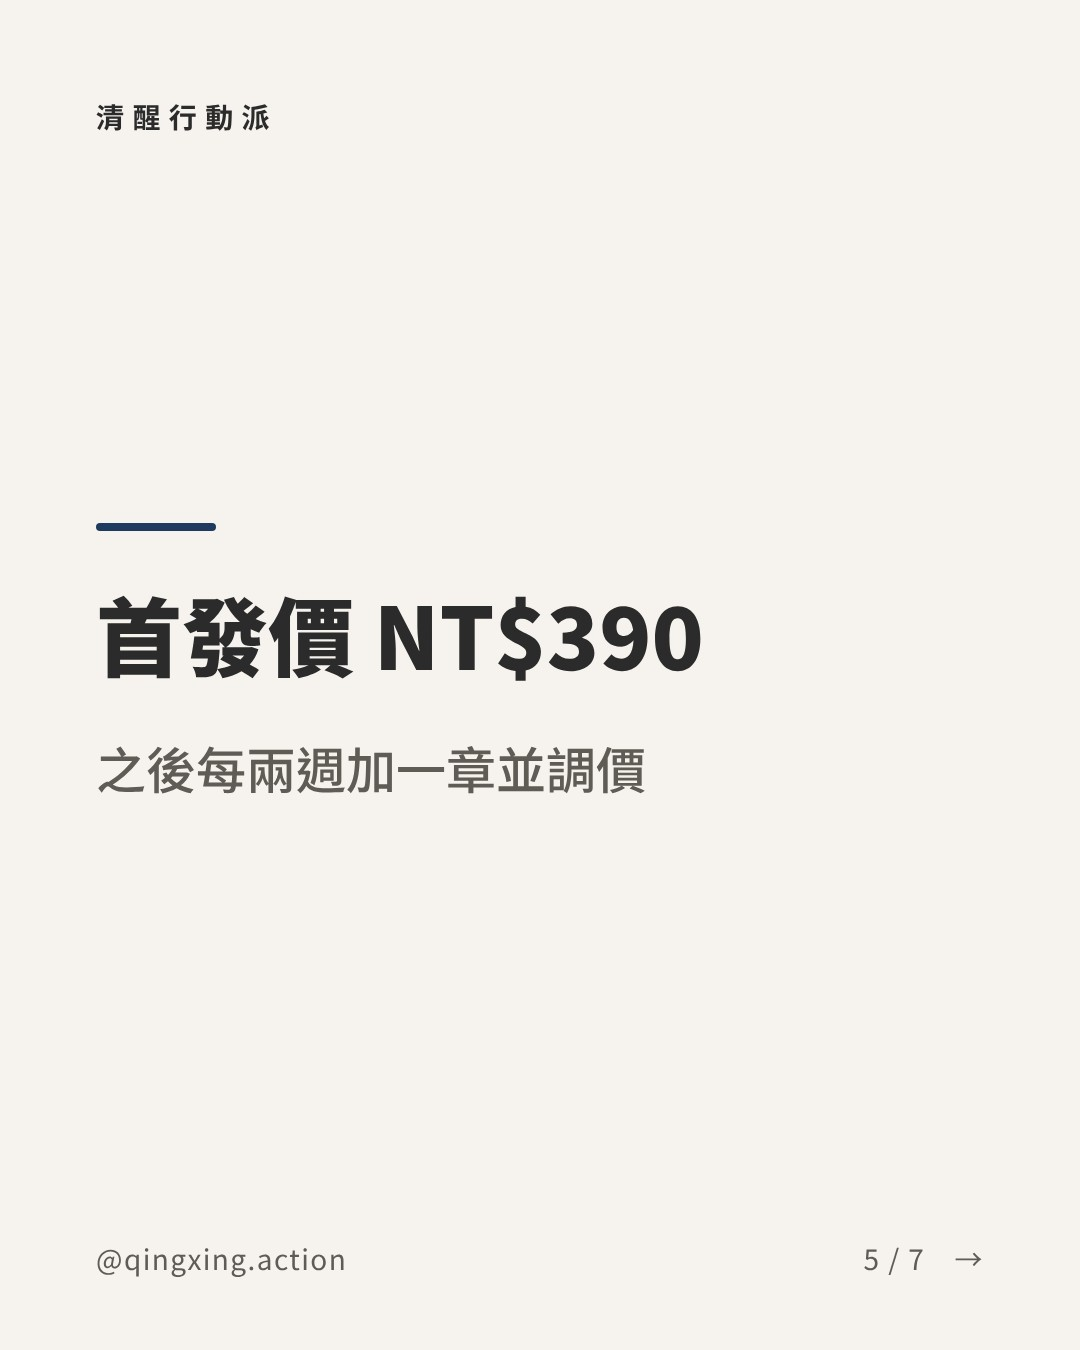
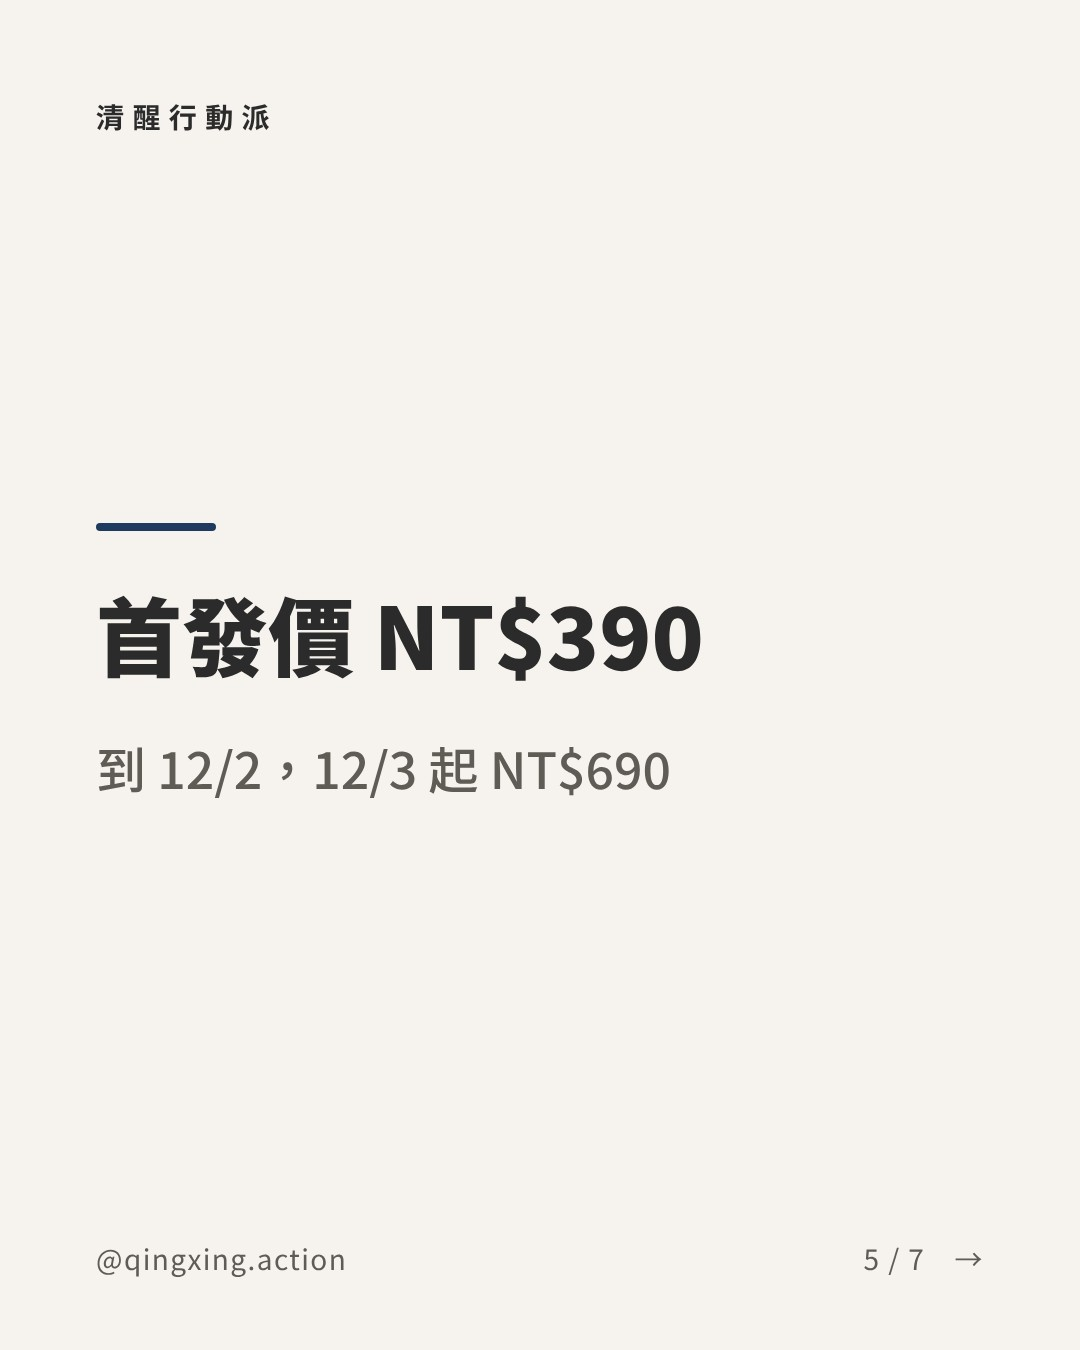
qingxing: 電子書改成 390 → 690（12/3）→ 990（12/31），組合 690 → 990 → 1,290；重做相關圖卡與 TikTok
Claude-Session: https://claude.ai/code/session_016ub6HVfmbt68BdywDv2i6d

Changed region(s): [[0.0917, 0.5289, 0.6417, 0.5911]]

diff --git a/qingxing/index.html b/qingxing/index.html
@@ -391,13 +391,13 @@ const MILESTONES = [
   ["2026-11-19","首發 30 名送 7 天回饋（到 11/26）"],
   ["2026-11-29","Day 20 草稿要補截圖與讀者回饋"],
   ["2026-12-01","團體方案開發開始"],
-  ["2026-12-03","電子書 V2 更新，漲到 590"],
+  ["2026-12-03","電子書 V2 更新，漲到 690（組合 990）"],
   ["2026-12-09","30 天 IG 主題結束"],
   ["2026-12-10","讀者推薦計畫開始（分 30%）"],
   ["2026-12-15","進階版上架 1,490"],
-  ["2026-12-17","電子書 V3 更新，漲到 790"],
+  ["2026-12-17","電子書 V3 更新（價格不變）"],
   ["2026-12-26","新年 90 天檔期開始（到 1/10）"],
-  ["2026-12-31","電子書 V4 更新，漲到 990 封頂"],
+  ["2026-12-31","電子書 V4 更新，調到 990（組合 1,290）"],
   ["2027-01-08","30 天文字陪跑開放（限 8 人）"],
   ["2027-01-28","電子書每月更新"],["2027-02-28","電子書每月更新"],["2027-03-28","電子書每月更新"],["2027-04-28","電子書每月更新"],
 ];

diff --git a/qingxing/instagram/posts/2026-11-19-day10-ebook-launch.md b/qingxing/instagram/posts/2026-11-19-day10-ebook-launch.md
@@ -14,6 +14,6 @@ status: ready
 
 不是勵志書，是一套 6 章的操作手冊：怎麼看清自己在逃什麼、怎麼拆任務、怎麼排 90 天。另附手機精簡版，通勤 5 分鐘看完一章。
 
-首發 NT$390，每兩週會加新章節並調價，早買的人終身免費更新。想要 Notion 打卡系統一起用的，組合 NT$690。連結在首頁。
+首發價 NT$390 到 12/2，12/3 起 NT$690，12/31 起 NT$990；之後每兩週加新章節，早買的人終身免費更新。想要 Notion 打卡系統一起用的，組合首發 NT$690。連結在首頁。
 
 #清醒行動派 #先清醒再行動 #電子書 #從迷惘到行動 #自我成長

diff --git a/qingxing/instagram/posts/2026-12-03-day24-ebook-v2.md b/qingxing/instagram/posts/2026-12-03-day24-ebook-v2.md
@@ -10,8 +10,8 @@ images:
   - qingxing/ig/2026-12-03-day24-ebook-v2-7.jpg
 status: ready
 ---
-V2 更新了，新增 20 頁的拖延拆解工作頁，價格調為 NT$590。
+V2 更新了，新增 20 頁的拖延拆解工作頁，價格調為 NT$690。
 
-已經買的人免費拿到新版。每兩週會持續加章節並調價，所以越早買越划算。連結在首頁。
+已經買的人免費拿到新版。12/17 會再加一章，12/31 起調為 NT$990，在那之前買的人之後的更新都免費。連結在首頁。
 
 #清醒行動派 #先清醒再行動 #電子書更新 #從迷惘到行動 #拖延

diff --git a/qingxing/instagram/posts/2026-12-09-day30-thirty-day-review.md b/qingxing/instagram/posts/2026-12-09-day30-thirty-day-review.md
@@ -12,7 +12,7 @@ status: draft
 ---
 30 天做完了。
 
-回顧這 30 篇，最多人收藏的是【依數據填】。這些工具都在清醒行動系統裡，電子書＋系統組合現在 NT$890。
+回顧這 30 篇，最多人收藏的是【依數據填】。這些工具都在清醒行動系統裡，電子書＋系統組合現在 NT$990，12/31 起調為 NT$1,290。
 
 12 月會上架進階版「用 AI 打造個人行動系統」，教你把 AI 設定成自己的行動教練，再做一個寫著你名字的儀表板。連結在首頁。
 
